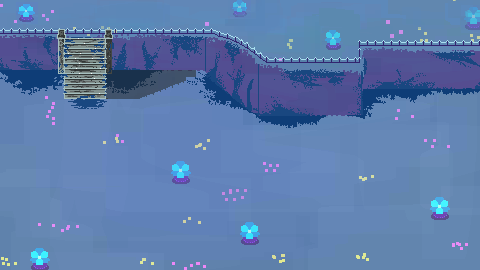
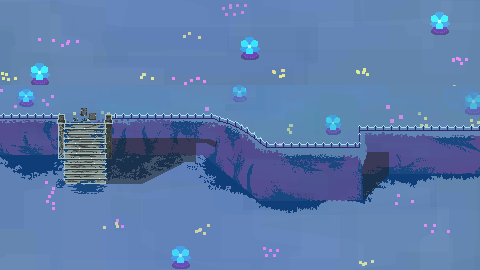
two raycasts for drifter, added sweep TOI algorithm, changed level
- drifter now casts 2 rays when drifting, this helps prevent clipping
- but, at this point, the code is converging to an ad hoc solution that would work better with integers, without the whole fancy physics. further investigation is needed
- added sweep algorithm (time of impact), unused for now
- changed level by lowering the stairs

diff --git a/src/main.cpp b/src/main.cpp
@@ -54,7 +54,6 @@ void reset_scene(Scene* scene, GUIButton* btn) {
 void add_box(Scene* scene, GUIButton* btn) {
 	static int i = 0;
 
-
 	int vertices = 4;
 	int size = 50;
 	const Shape c = Shape(vertices, size);
@@ -70,30 +69,28 @@ void init_drifter_scene(Scene* scene, GUI* gui) {
 
 	PhysBody* b;
 
-	printf("TODO: Raycasting for a priori collision.");
-
-	b = scene->add(new PhysBody({31, 52}, Shape(Vec2{62, 38})));
+	b = scene->add(new PhysBody({31, 137}, Shape(Vec2{62, 38})));
 	b->calc_mass(0);
 	b->material.e = 0;
 
-	b = scene->add(new PhysBody({162, 52}, Shape(Vec2{110, 38})));
+	b = scene->add(new PhysBody({162, 137}, Shape(Vec2{110, 38})));
 	b->calc_mass(0);
 	b->material.e = 0;
 
-	b = scene->add(new PhysBody({300, 90}, Shape({{63, -28}, {63, 24}, {-44, 24}, {-100, -28}})));
+	b = scene->add(new PhysBody({300, 175}, Shape({{63, -28}, {63, 24}, {-44, 24}, {-100, -28}})));
 	b->calc_mass(0);
 	b->material.e = 0;
 
-	b = scene->add(new PhysBody({420, 66}, Shape(Vec2{120, 44})));
+	b = scene->add(new PhysBody({420, 151}, Shape(Vec2{120, 44})));
 	b->calc_mass(0);
 	b->material.e = 0;
 
-	b = scene->add(new PhysBody({230, 53}, Shape({{-14, -20}, {32, 12}, {-14, 12}})));
+	b = scene->add(new PhysBody({230, 137.75}, Shape({{-14, -20}, {32, 12}, {-14, 12}})));
 	b->calc_mass(0);
 	b->material.e = 0;
 
-	Shape drifter_shape = Shape({{-4, -2}, {4, -2}, {4, 2}, {-4, 2}});
-	player = scene->add(new PhysBody({32, 132}, drifter_shape));
+	Shape drifter_shape = Shape({{-3.5, -2}, {3.5, -2}, {3.5, 2}, {-3.5, 2}});
+	player = scene->add(new PhysBody({32, 112}, drifter_shape));
 	player->material.e = 0;
 	player->I_inv = 0;
 	player->I = 0;
@@ -201,12 +198,12 @@ void init_test_scene(Scene* scene, GUI* gui) {
 	GUIButton* reset_scene_btn = gui->add(new GUIButton(gui, {144, 48}, "Reset scene"));
 	reset_scene_btn->reg_click_callback(reset_scene, scene);
 
-	GUILabel* lbl_naphy = gui->add(new GUILabel(gui, {0, 0}, "naphy ~ dev.2022.01.04", COL_WHITE, COL_BLUE));
+	GUILabel* lbl_naphy = gui->add(new GUILabel(gui, {0, 0}, "naphy test", COL_WHITE, COL_BLUE));
 }
 
 int main(int, char**) {
 	SDL_Init(SDL_INIT_VIDEO);
-	SDL_Window* win = SDL_CreateWindow("naphy", WIN_X, WIN_Y, WIN_W, WIN_H, SDL_WINDOW_OPENGL);
+	SDL_Window* win = SDL_CreateWindow("naphy ~ dev.2022.01.08", WIN_X, WIN_Y, WIN_W, WIN_H, SDL_WINDOW_OPENGL);
 	SDL_Renderer* rend = SDL_CreateRenderer(win, -1, SDL_RENDERER_ACCELERATED | SDL_RENDERER_PRESENTVSYNC);
 	SDL_SetRenderDrawBlendMode(rend, SDL_BLENDMODE_BLEND);
 	SDL_RenderSetLogicalSize(rend, VIEW_W, VIEW_H);

diff --git a/src/naphy/collision.cpp b/src/naphy/collision.cpp
@@ -283,8 +283,6 @@ static int collision_pp(const PhysBody* const A, const PhysBody* const B, Arbite
 
 
 Arbiter raycast(Vec2 raystart, Vec2 rayend, const PhysBody* B) {
-	// TODO: Don't make entire PhysBodies just for this.
-
 	PhysBody A = PhysBody(raystart, Shape({{0, 0}, {rayend - raystart}}));
 
 	Arbiter R(&A, (PhysBody*)B);
@@ -293,16 +291,44 @@ Arbiter raycast(Vec2 raystart, Vec2 rayend, const PhysBody* B) {
 }
 
 
+int sweep(Arbiter* R, double dt, int iterations) {
+	PhysBody Acopy = *(R->A);
+	PhysBody Bcopy = *(R->B);
+
+	const Vec2 vA_dir = Acopy.vel.normalized();
+	const Vec2 vB_dir = Bcopy.vel.normalized();
+	const double vA_len = Acopy.vel.len();
+	const double vB_len = Bcopy.vel.len();
+	const double step = 1.0 / iterations;
+	
+	for (double d = 0.0; d <= 1.0; d += step) {
+		Acopy.pos = R->A->pos + vA_dir * vA_len * step * dt;
+		Bcopy.pos = R->B->pos + vB_dir * vB_len * step * dt;
+
+		Arbiter Rcopy{&Acopy, &Bcopy};
+		Rcopy.build();
+		if (Rcopy.depth > 0) {
+			printf("%f\n", d);
+			*R = Rcopy;
+			return 1;
+		}
+	}
+
+	return 0;
+}
+
+
 //=================================================================================================
 
 
 static void get_inc_and_ref_face(const PhysBody* ref, const PhysBody* inc, unsigned ref_face, 
 								Vec2 ref_vert[2], Vec2 inc_vert[2]) {
-	// We know what the reference face is (we get it here though because it makes the code nicer).
-	// Our incident face is the one that's most parallel to the reference face's normal.
+	// Incident face is the one that's most parallel to the reference face's normal.
 
-	Vec2 n = ref->shape.norm[ref_face];
-	n = inc->rot.transpose() * (ref->rot * n);
+	ref_vert[0] = ref->shape.vert[ref_face];
+	ref_vert[1] = ref->shape.vert[(ref_face + 1) % ref->shape.vert.size()];
+
+	const Vec2 n = inc->rot.transpose() * (ref->rot * ref->shape.norm[ref_face]);
 
 	unsigned inc_face = 0;
 	double d = FLT_MAX;
@@ -313,9 +339,6 @@ static void get_inc_and_ref_face(const PhysBody* ref, const PhysBody* inc, unsig
 			inc_face = i;
 		}
 	}
-
-	ref_vert[0] = ref->shape.vert[ref_face];
-	ref_vert[1] = ref->shape.vert[(ref_face + 1) % ref->shape.vert.size()];
 
 	inc_vert[0] = inc->shape.vert[inc_face];
 	inc_vert[1] = inc->shape.vert[(inc_face + 1) % inc->shape.vert.size()];

diff --git a/src/game/cdrifter.cpp b/src/game/cdrifter.cpp
@@ -114,31 +114,44 @@ void CDrifter::update(const Input* input, Scene* scene) {
 			const Vec2 dir = (mousepos - body->pos).normalized();
 			Vec2 driftvec = vel_drift * dir;
 
-			// Prevent clipping by raycasting
+			// Prevent tunnelling by doing raycasts
 			for (const PhysBody* b : scene->body) {
 				if (b->dynamic_state == PHYSBODY_STATE_STATIC) {
+					// Cast two rays: left-middle and right-middle (according to bbox).
+
+					const double bbox_w = abs(body->get_bbox()[0].x - body->get_bbox()[1].x);
+					const Vec2 half_extents = Vec2(bbox_w / 2, 0);
 					const Vec2 ray_A = body->pos;
 					const Vec2 ray_B = ray_A + driftvec * scene->timing.dt; // TODO: Ugly dt
-					const Arbiter R = raycast(ray_A, ray_B, b);
 
-					if (R.depth > 0) {
-						// Move in the axis which dir and R.normal are less parallel in.
+					const Arbiter Rarr[] = {
+						raycast(ray_A - half_extents, ray_B, b),
+						raycast(ray_A + half_extents, ray_B, b),
+					};
+
+					for (unsigned i = 0; i < 2; i++) {
+						const Arbiter* const R = &Rarr[i];
+
+						if (R->depth <= 0)
+							continue;
+
+						// Move in axis where dir and R.normal are less parallel in.
 
 						Vec2 delta, vec_dir;
-						delta = dir - R.normal;
+						delta = dir - R->normal;
 						delta.x = abs(delta.x);
 						delta.y = abs(delta.y);
 
-						if (delta.x > delta.y) vec_dir = {dir.x * 0.95, dir.y * 0.05};
-						else vec_dir = {dir.x * 0.05, dir.y * 0.95};
+						if (delta.x > delta.y) vec_dir = {dir.x * 0.9, dir.y * 0.1};
+						else vec_dir = {dir.x * 0.1, dir.y * 0.9};
 						vec_dir.normalize();
 
-						driftvec = (R.depth + 1.0) * vec_dir / scene->timing.dt; // TODO: Ugly dt
-						break;
+						driftvec = (R->depth + 1.0) * vec_dir / scene->timing.dt; // TODO: Ugly dt
+						goto finish_raycasts;
 					}
 				}
 			}
-
+finish_raycasts:;
 			body->vel = driftvec;
 
 			if (std::abs(body->vel.y) > std::abs(body->vel.x)) {

diff --git a/src/naphy/collision.h b/src/naphy/collision.h
@@ -13,3 +13,6 @@ int collision(Arbiter* const R);
 // Raycast against a POLYGON body.
 // Returns an arbiter detaling raycast results (depth=0 -> no collision).
 Arbiter raycast(Vec2 raystart, Vec2 rayend, const PhysBody* B);
+
+// Sweep-based continuous collsion.
+int sweep(Arbiter* R, double dt, int iterations);
